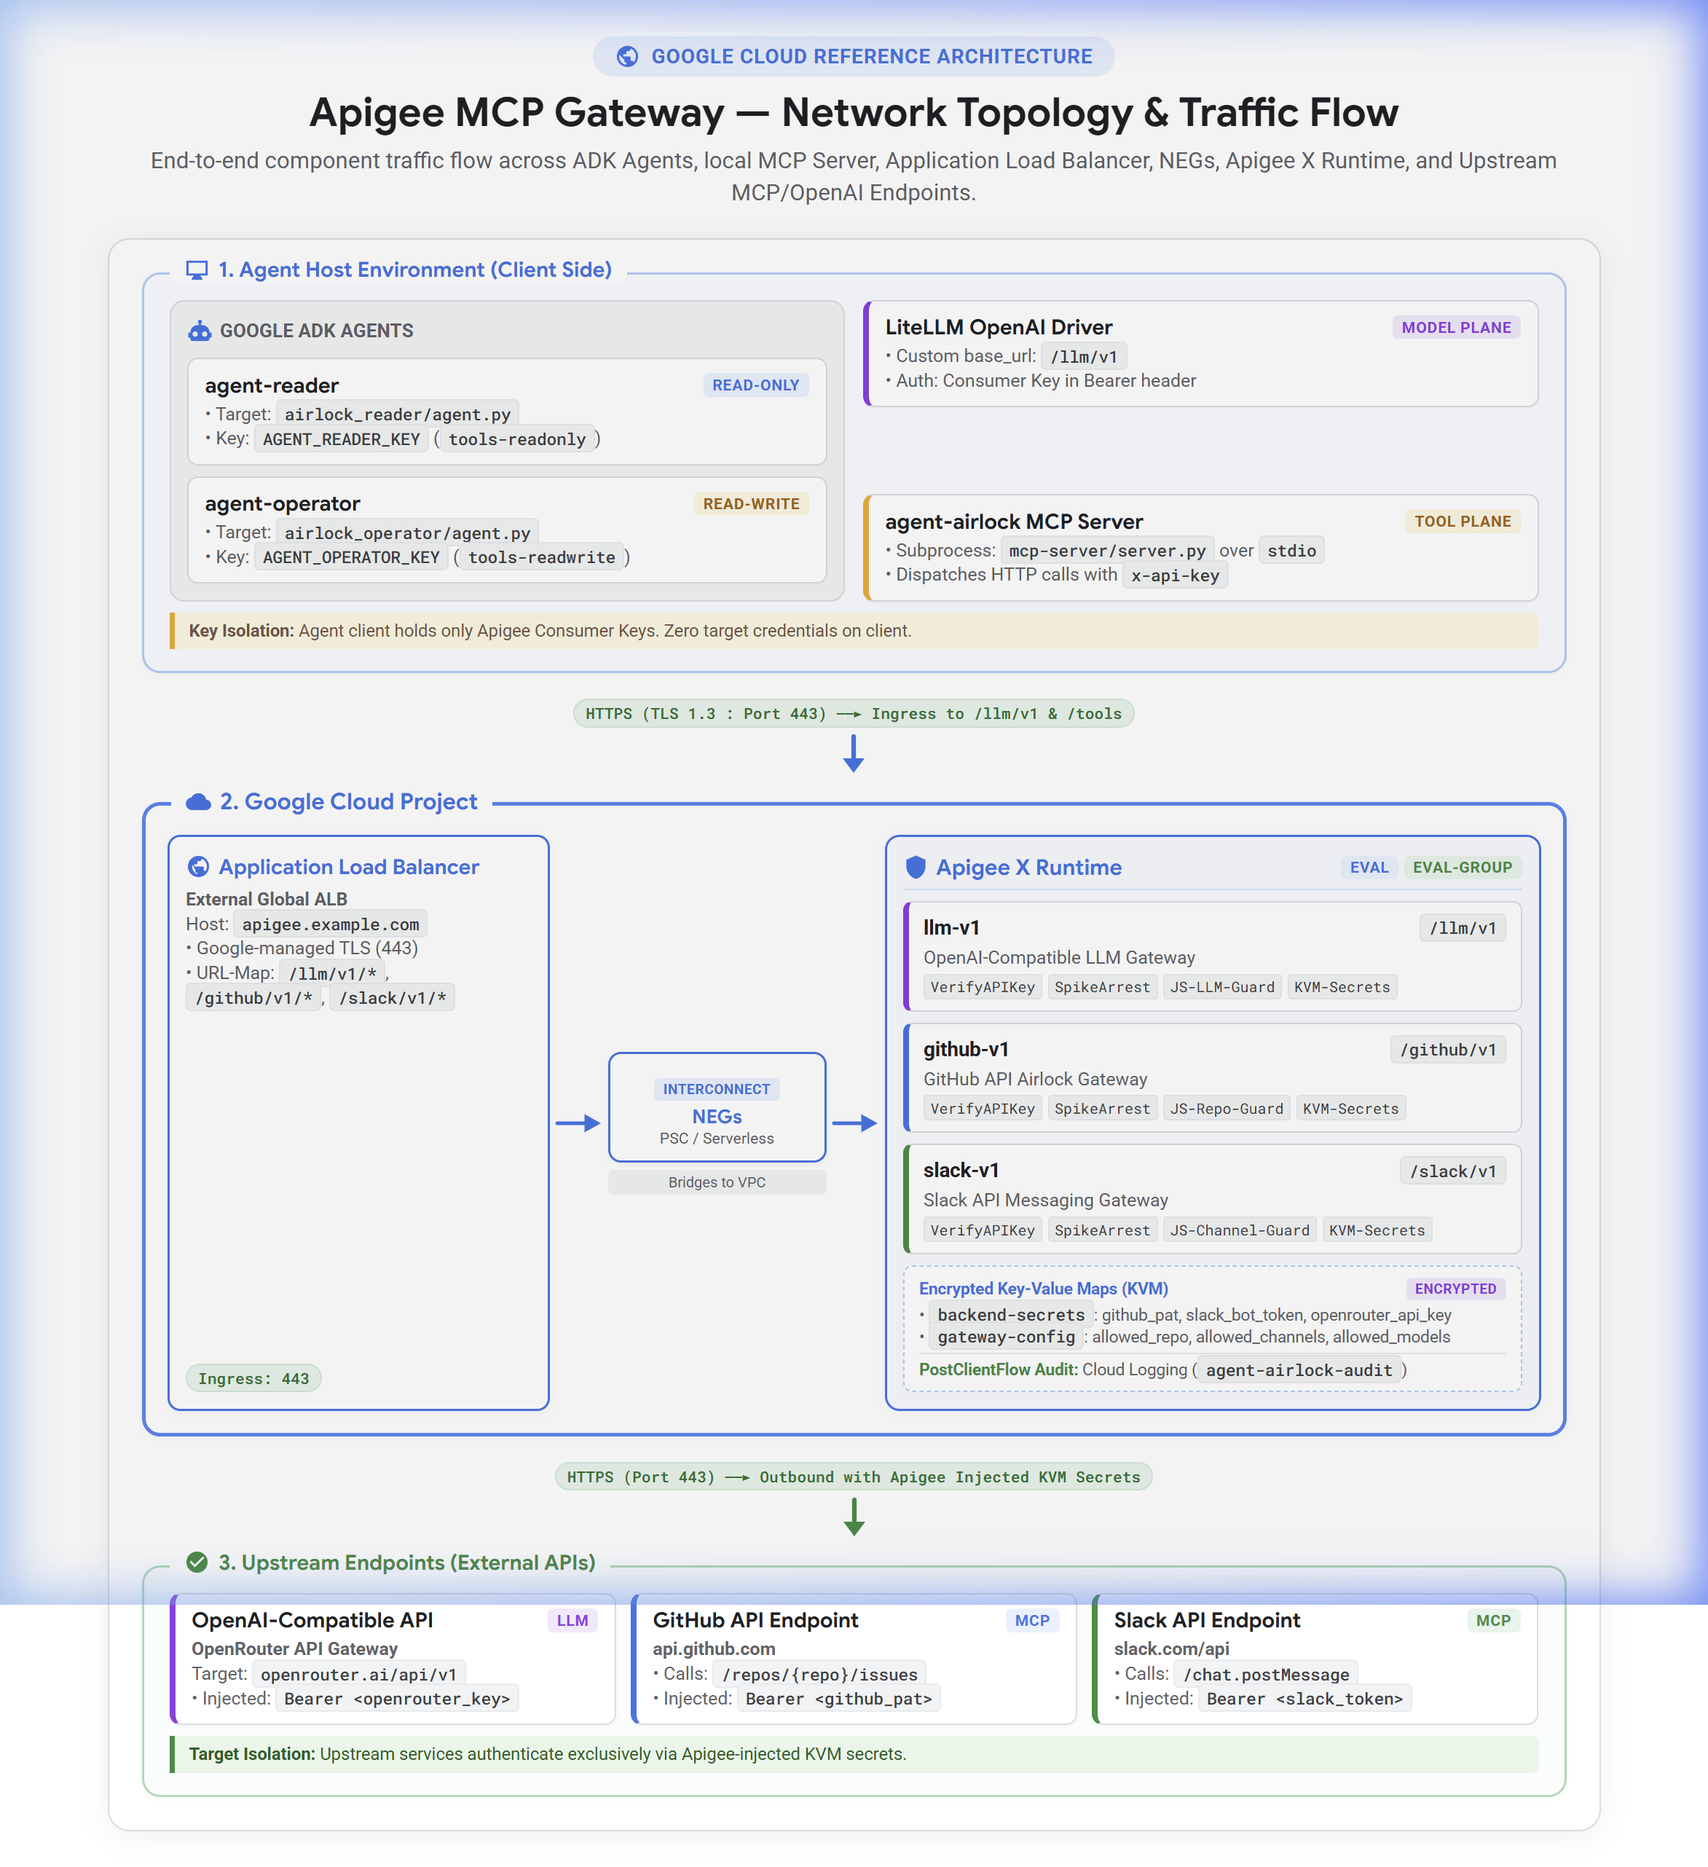
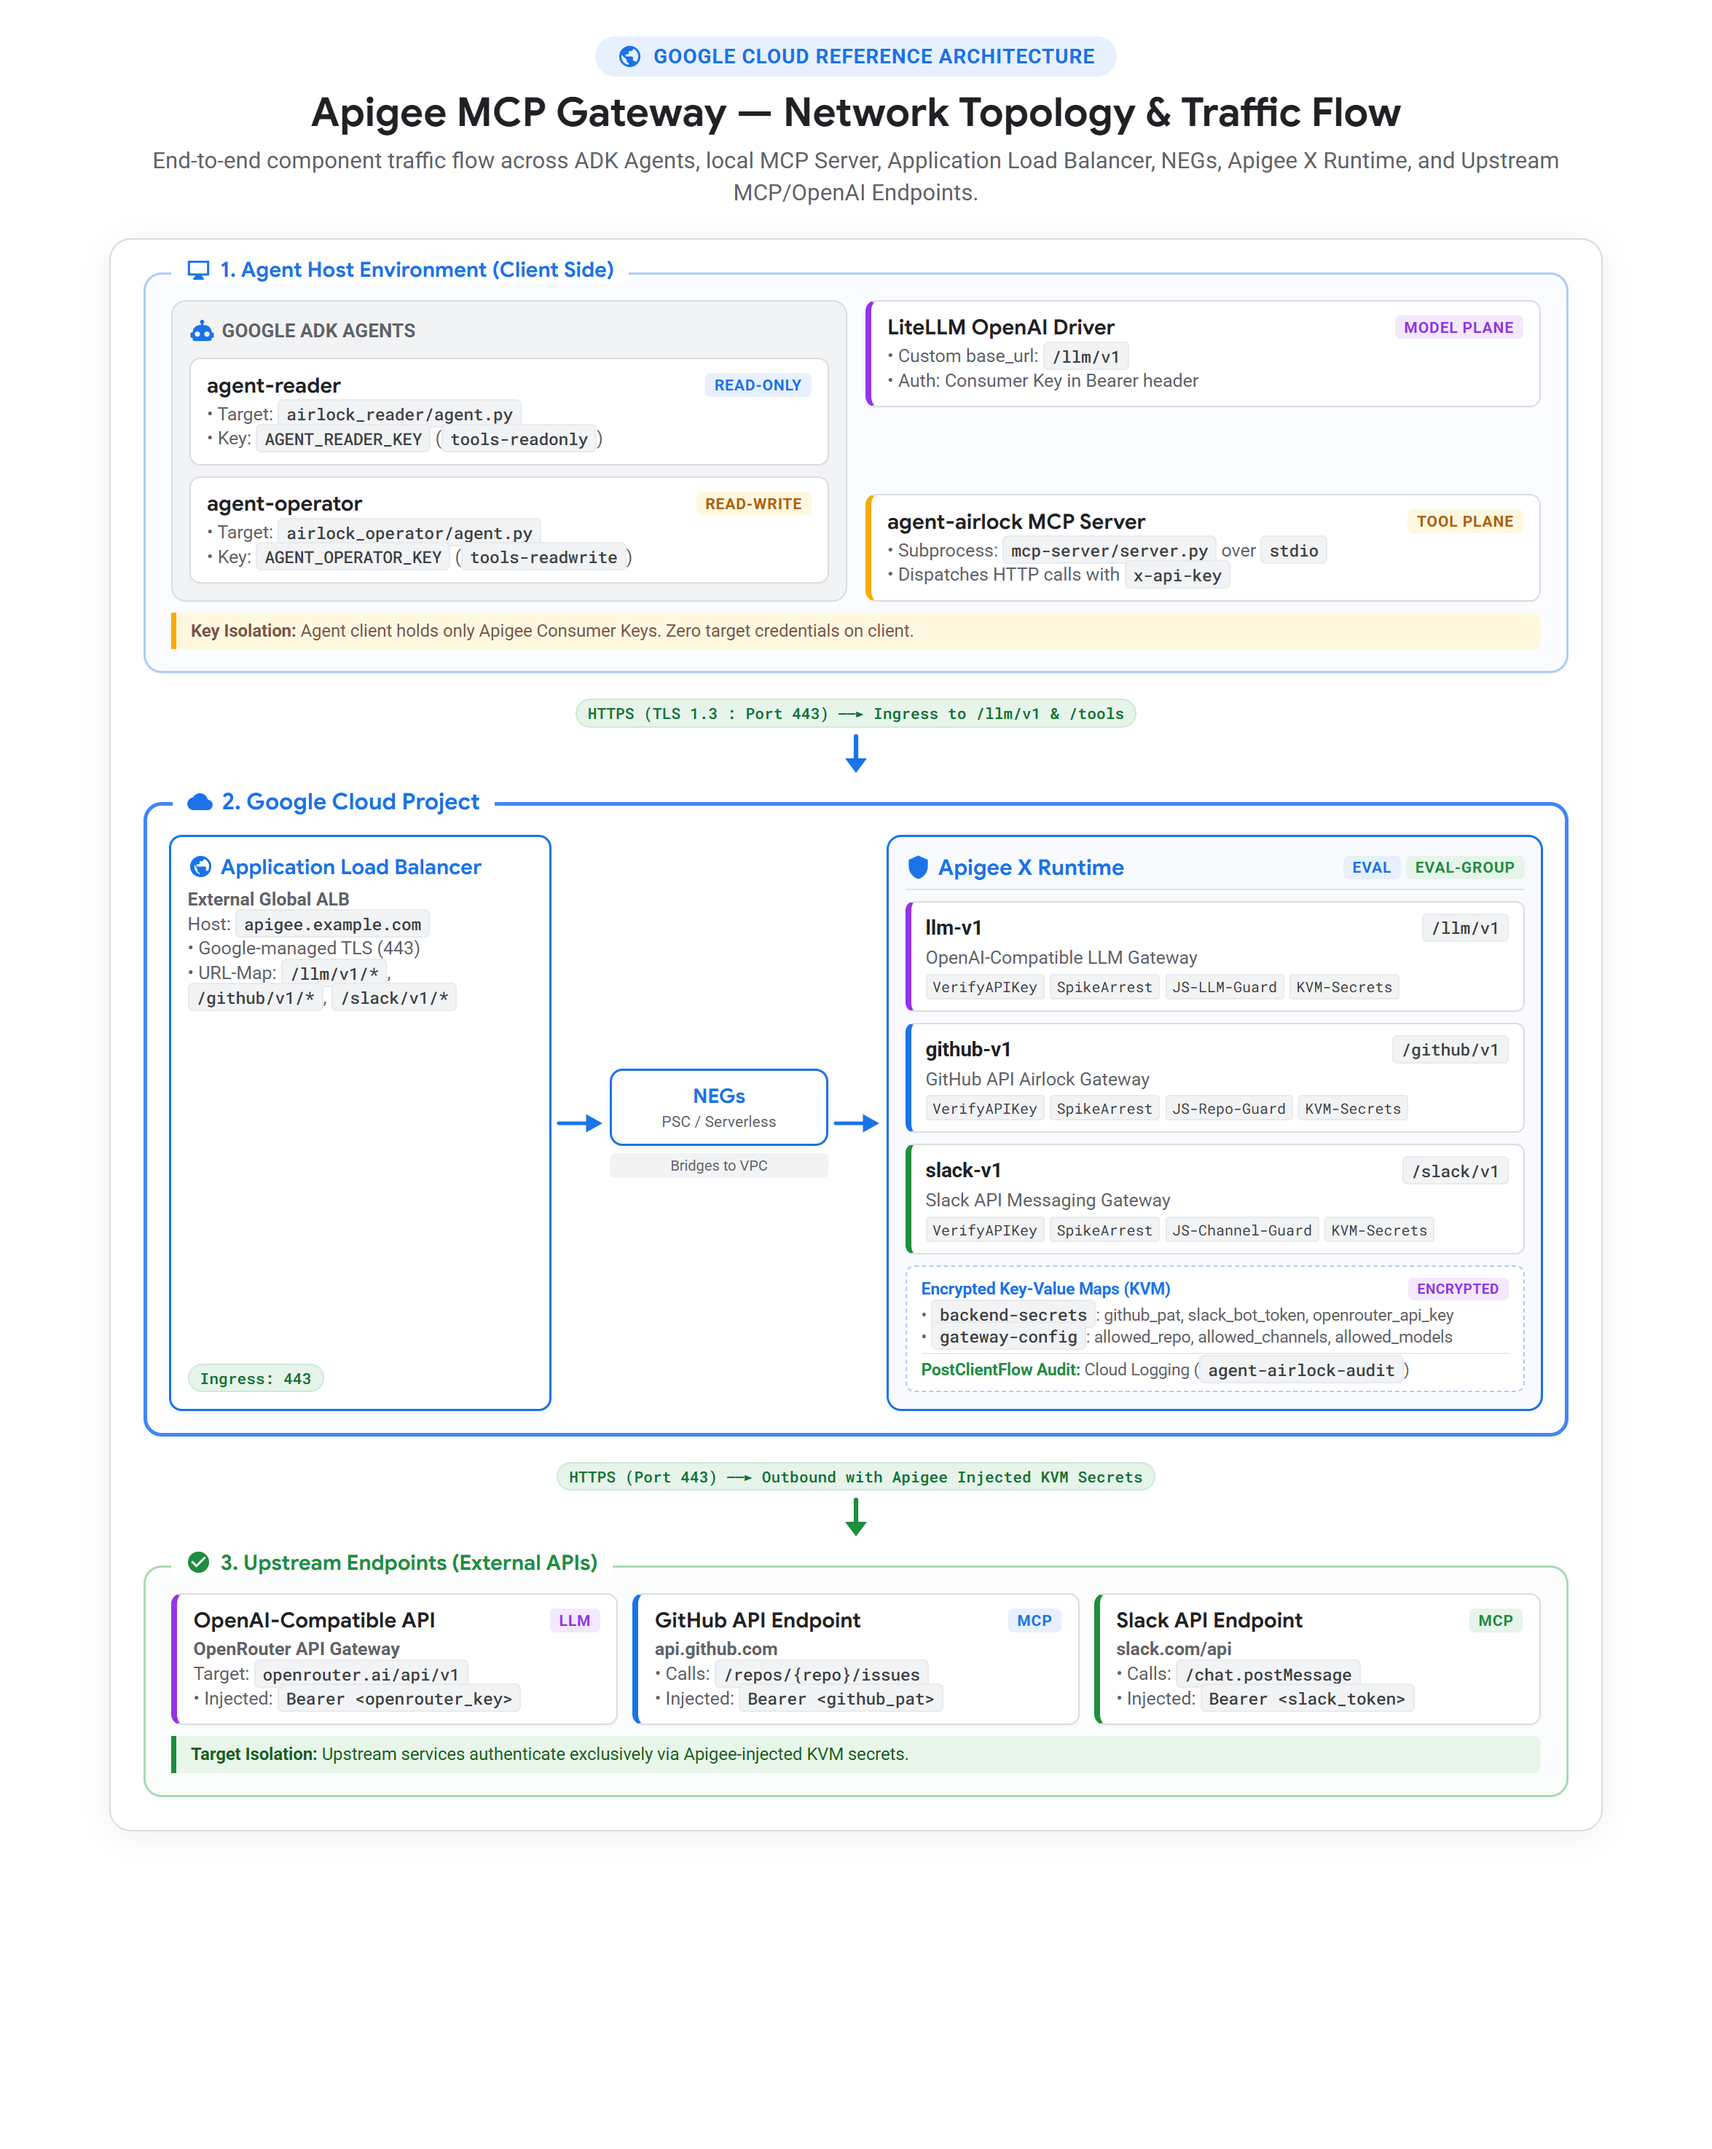
Updated network diagram

diff --git a/network_diagram.html b/network_diagram.html
@@ -547,11 +547,10 @@
         <!-- Step B: NEGs -->
         <div style="display:flex; flex-direction:column; gap:4px;">
           <div class="neg-card">
-            <span class="badge badge-blue" style="font-size: 7.5px;">Interconnect</span>
-            <div style="font-family:'Google Sans'; font-size:10.5px; font-weight:700; color:#1a73e8; margin-top:2px;">
+            <div style="font-family:'Google Sans'; font-size:11px; font-weight:700; color:#1a73e8;">
               NEGs
             </div>
-            <div style="font-size:8.5px; color:#5f6368;">PSC / Serverless</div>
+            <div style="font-size:8.5px; color:#5f6368; margin-top:2px;">PSC / Serverless</div>
           </div>
           <div style="font-size: 8px; color: #5f6368; text-align:center; padding:2px; background:#f1f3f4; border-radius:3px;">
             Bridges to VPC
